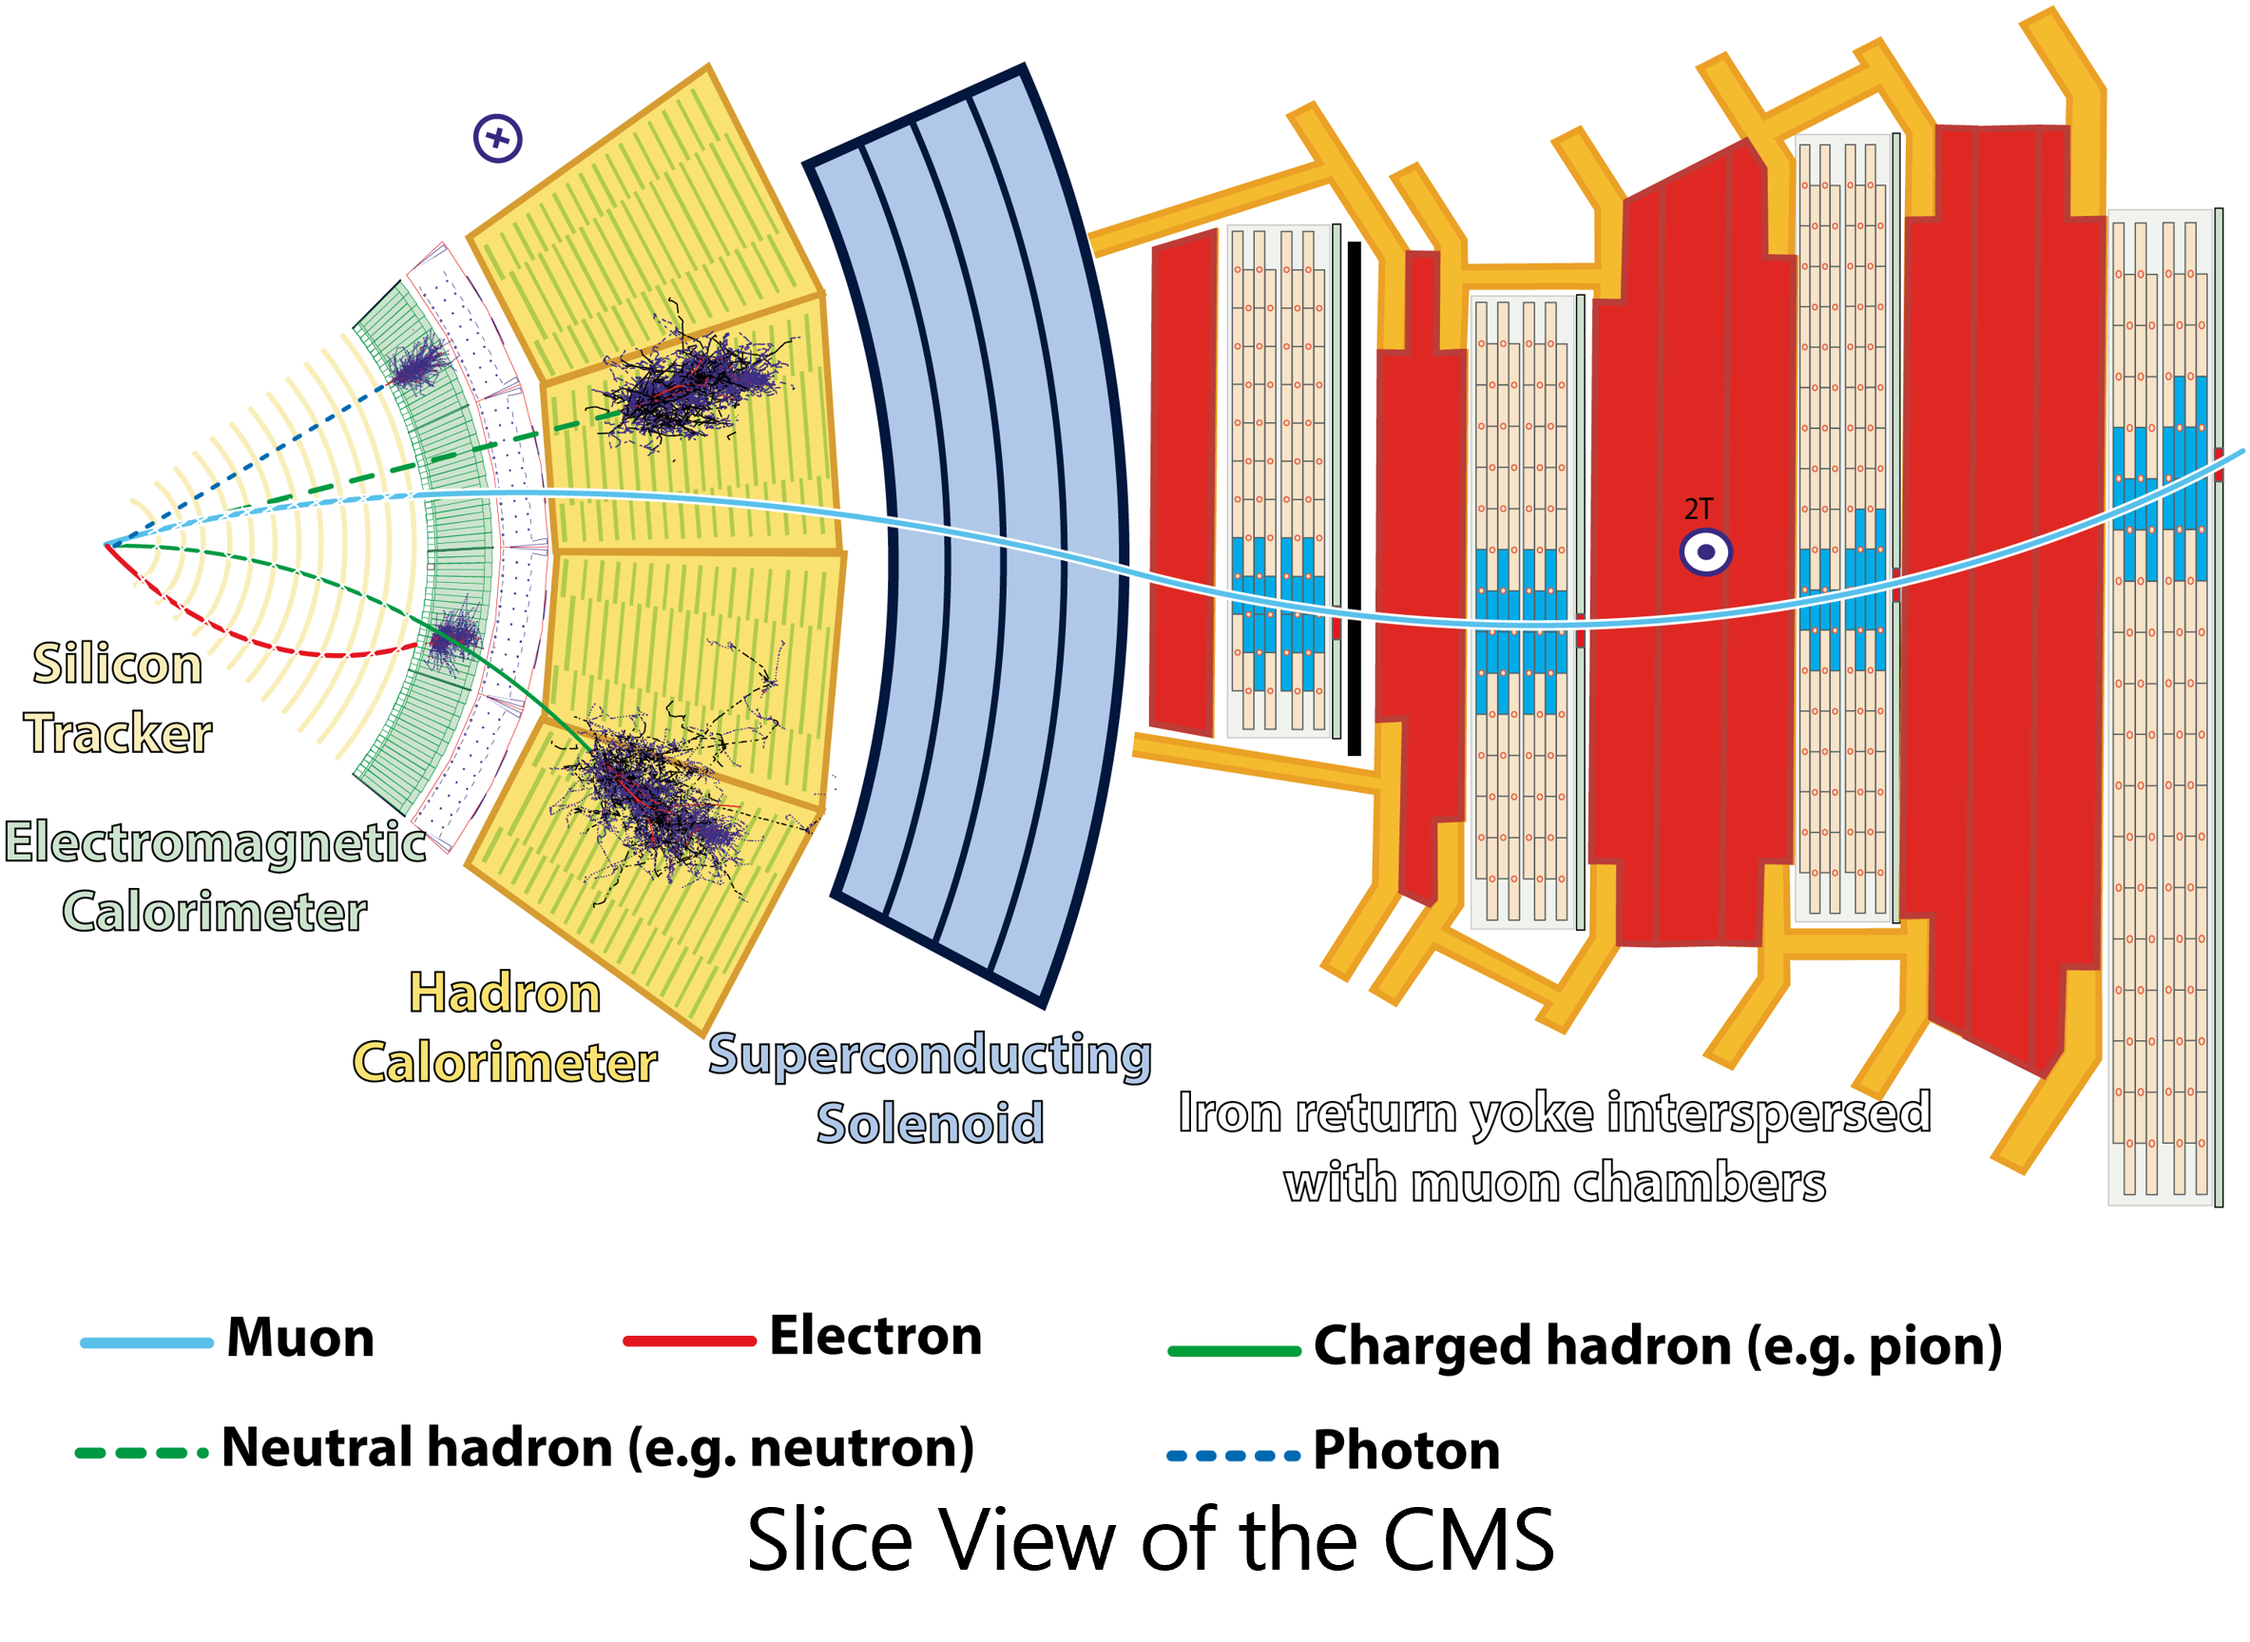
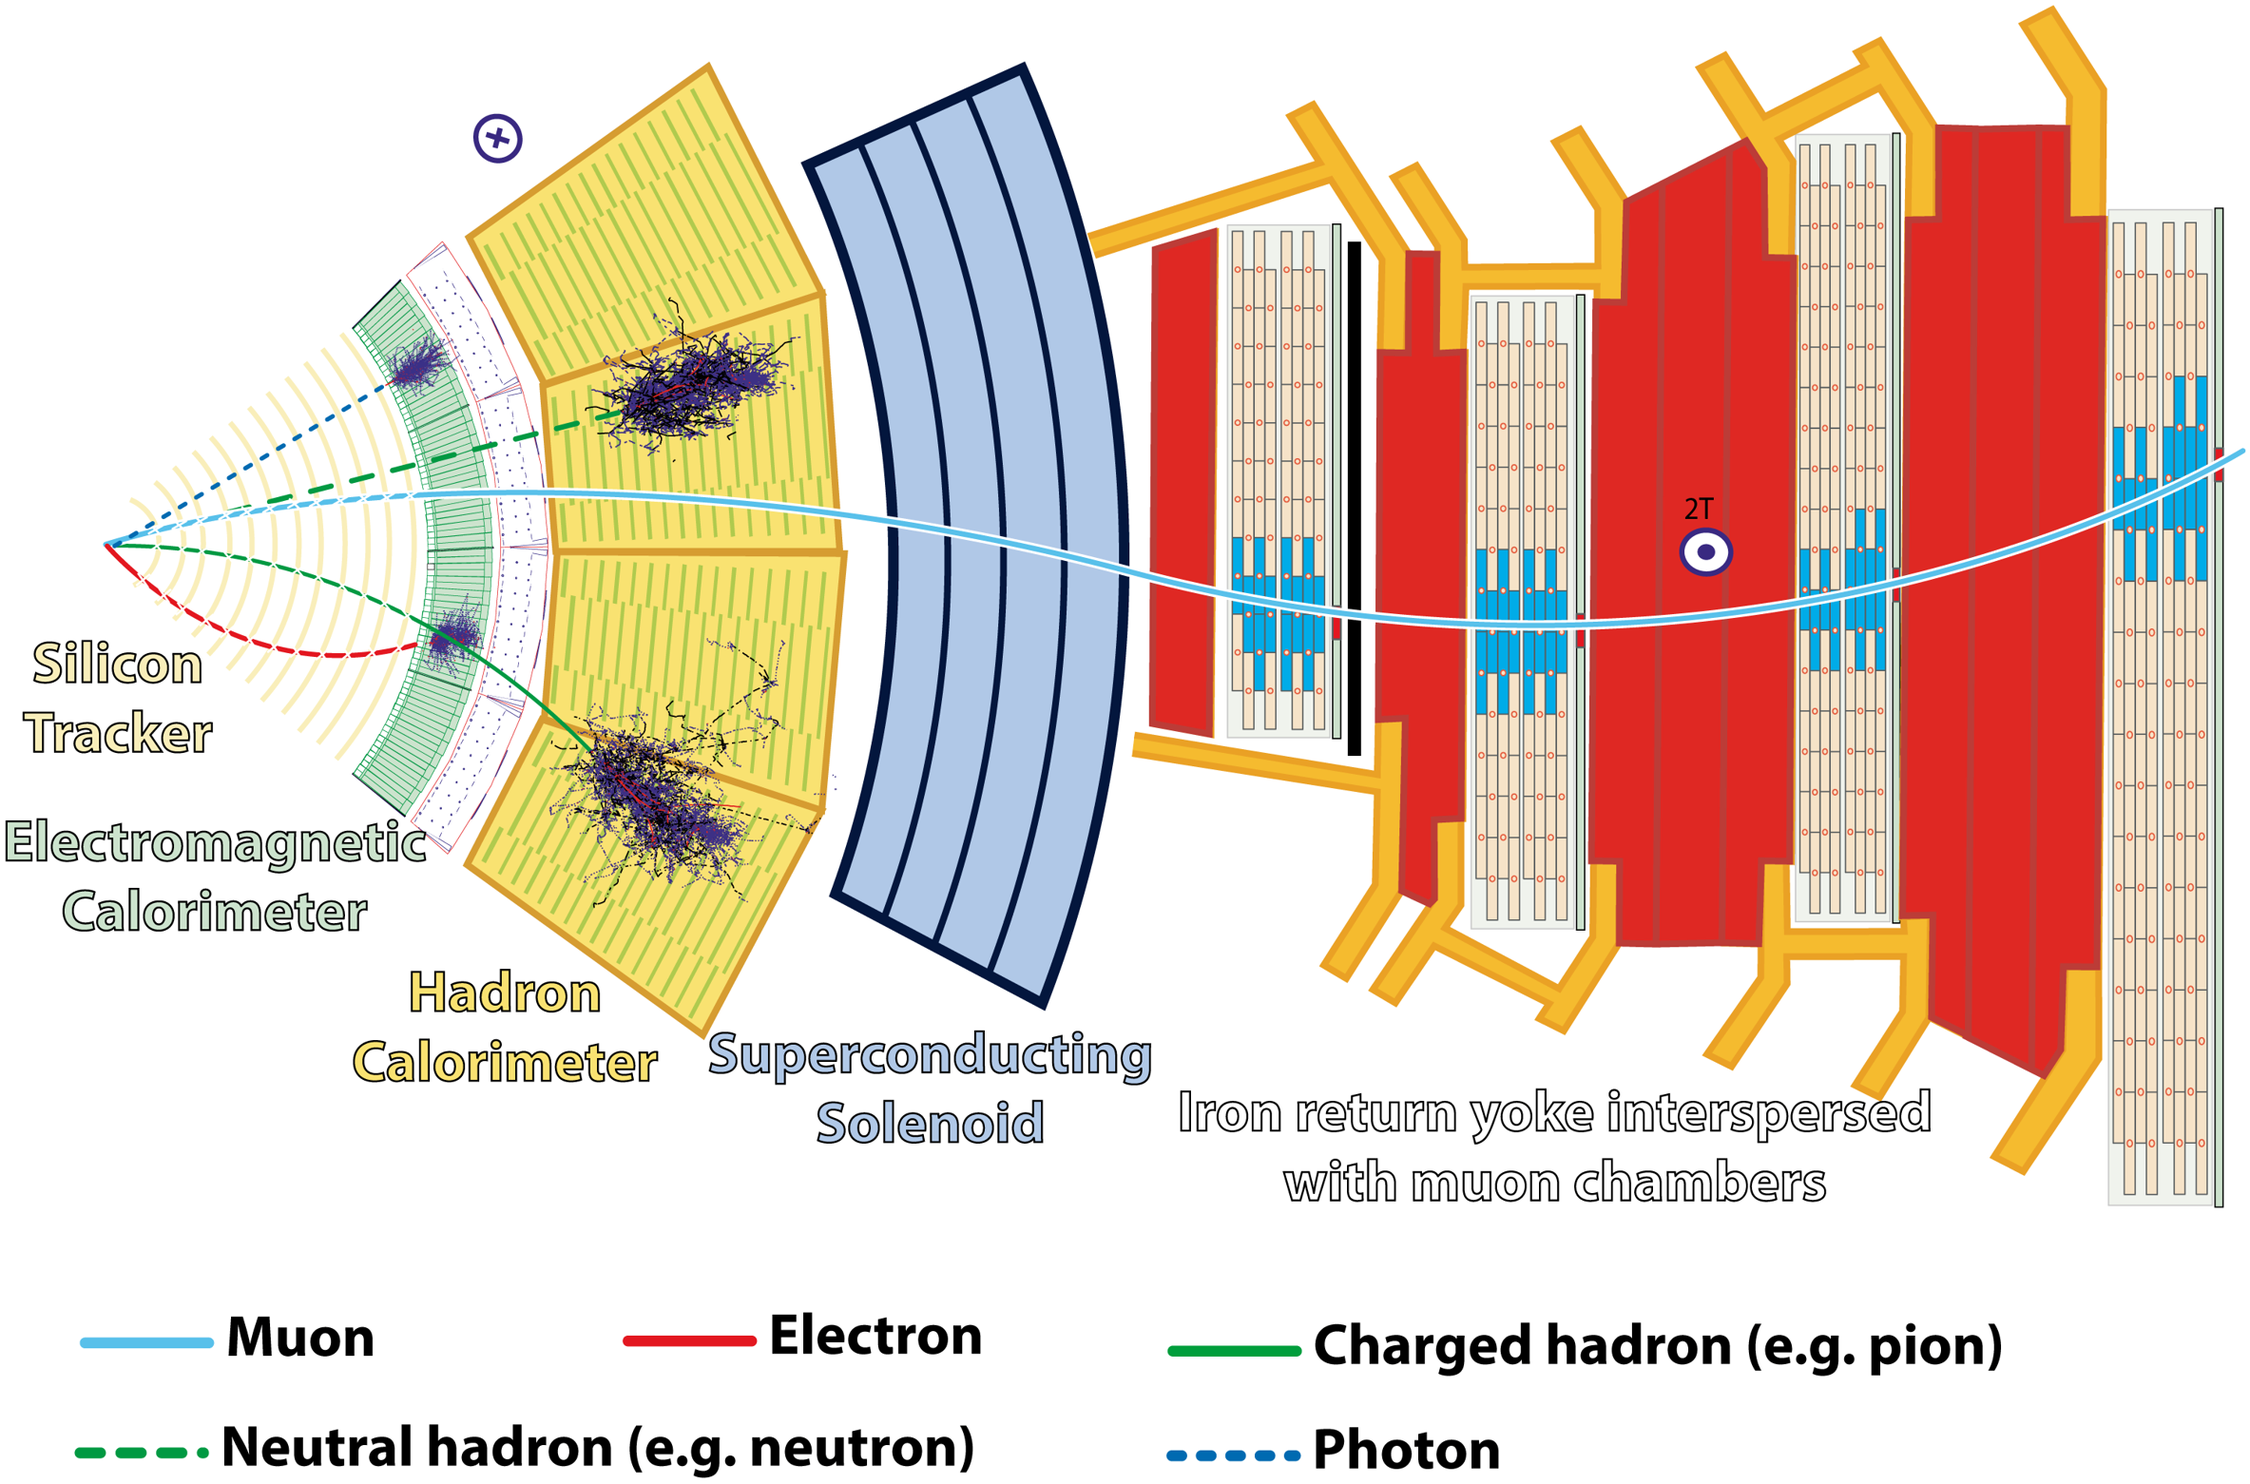
crop image

diff --git a/content/projects/vector-boson-scattering/index.md b/content/projects/vector-boson-scattering/index.md
@@ -27,7 +27,7 @@ Since we cannot directly observe the vector bosons, we look at final stable part
 
 The [CMS](https://cms.cern/) detector is a multipurpose particle detector that is designed to study a wide range of physics processes. It consists of several subdetectors, each designed to measure different properties of particles produced in high-energy collisions.
 
-![A diagram showing the CMS detector at CERN](diagram2.png "CMS detector at CERN")
+![A diagram showing the slice view of the CMS detector at CERN](diagram2.png "Slice view of the CMS detector at CERN")
 
 ## Analysis
 
